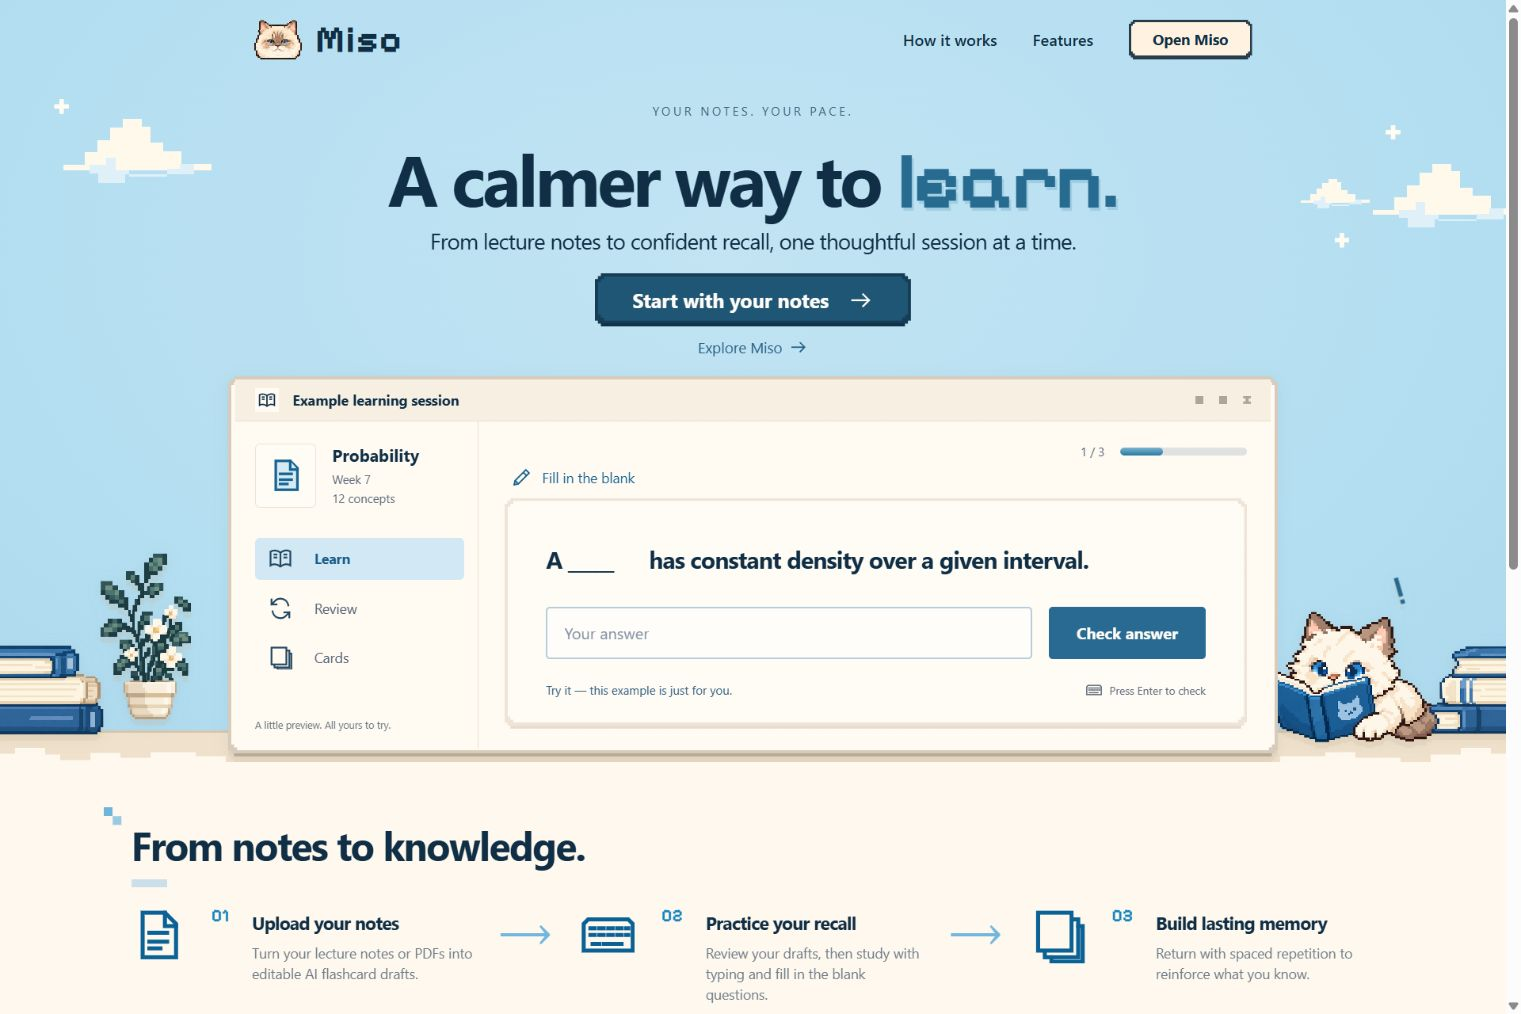
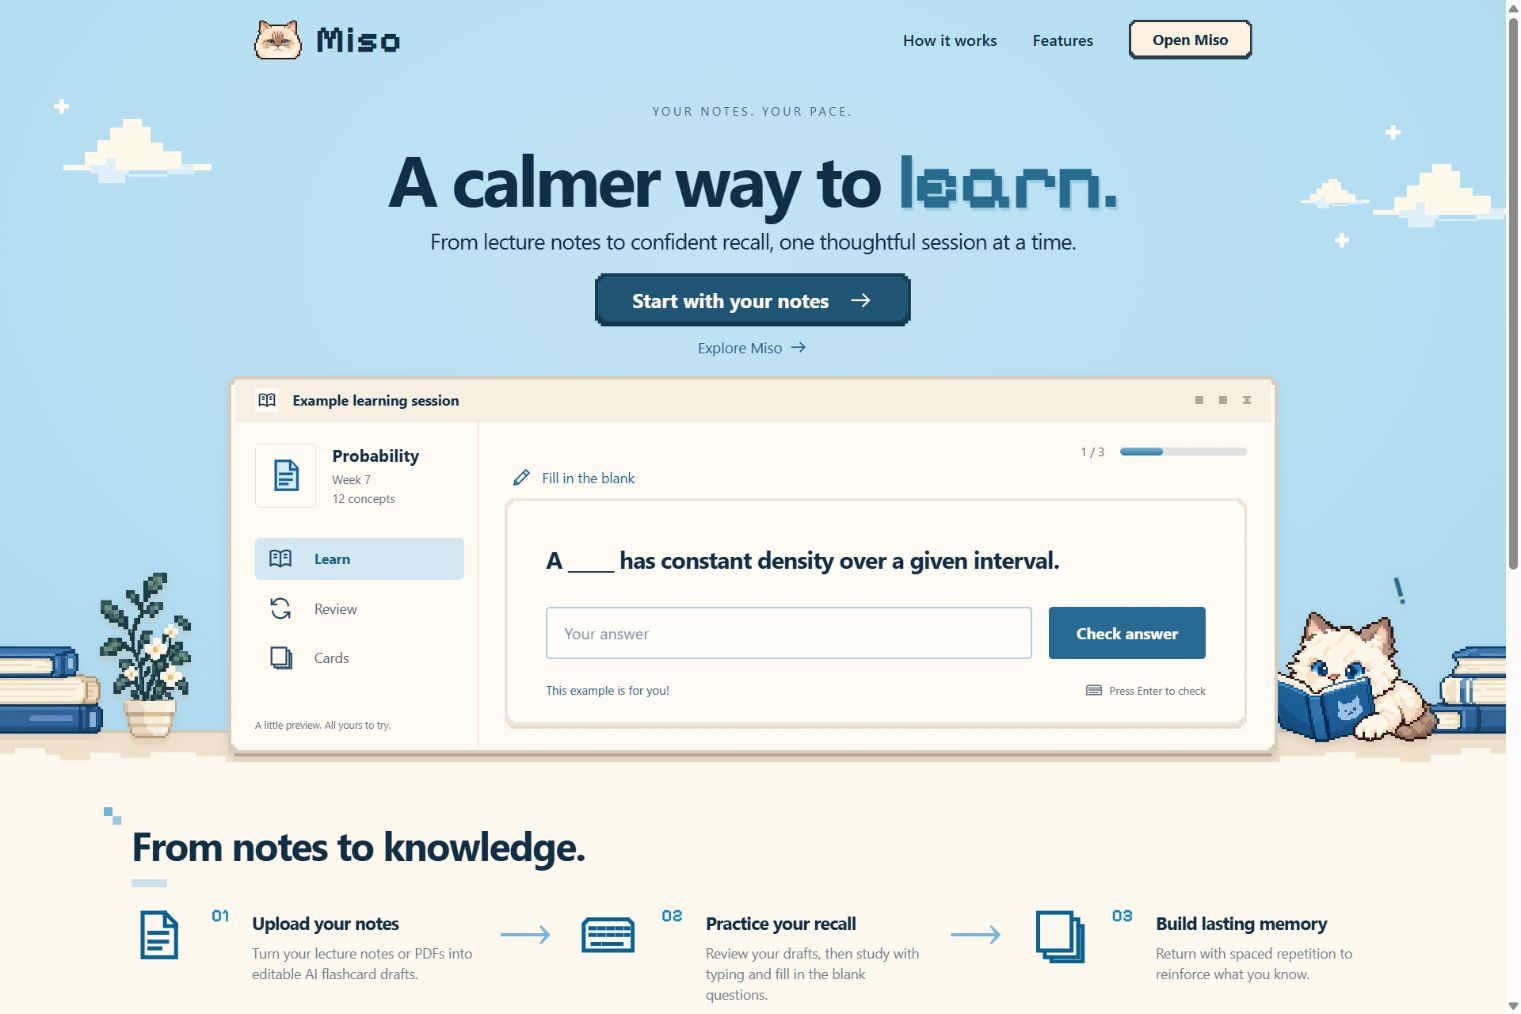
Refine landing example spacing and ground the plant

Changed region(s): [[0.0309, 0.5503, 0.1236, 0.7337], [0.4017, 0.5503, 0.7107, 0.5809], [0.3708, 0.6726, 0.4635, 0.7032]]

diff --git a/src/pages/landing.css b/src/pages/landing.css
@@ -66,7 +66,7 @@
 .landing-demo-label svg { width: 20px; height: 20px; }
 .landing .landing-question { position: relative; --s: 3px; --pb-border: #eee5d8; --pb-depth: #e7ddcf; --pb-fill: #fffbf5; min-height: 233px; padding: 45px 42px 24px; }
 .landing-question h3 { font-size: 24px; line-height: 1.4; font-weight: 700; letter-spacing: -.03em; }
-.landing-blank { display: inline-block; min-width: 76px; }
+.landing-blank { white-space: nowrap; }
 .landing-answer-row { display: flex; gap: 17px; margin-top: 31px; }
 .landing-answer-row input { min-width: 0; width: 100%; flex: 1; height: 53px; padding: 0 17px; border: 2px solid #b5cedf; border-radius: 4px; background: #fffdfa; color: #173c55; font: inherit; font-size: 16px; }
 .landing-answer-row input::placeholder { color: #8492a3; }
@@ -84,7 +84,7 @@
 .landing-scenery { pointer-events: none; }
 .landing-scenery img { position: absolute; object-fit: contain; image-rendering: pixelated; }
 .landing-books-left { right: calc(100% + 100px); bottom: -6px; width: 240px; height: 175px; }
-.landing-flowers { right: calc(100% + 30px); bottom: 29px; }
+.landing-flowers { right: calc(100% + 30px); bottom: 10px; }
 .landing-reading-cat { left: calc(100% - 18px); bottom: 13px; }
 .landing-books-right { left: calc(100% + 125px); bottom: -6px; width: 240px; height: 175px; }
 .landing-cat-spark { position: absolute; left: calc(100% + 118px); bottom: 141px; color: #28688d; font-family: var(--font-pixel); font-size: 42px; transform: rotate(-16deg); }
@@ -121,7 +121,7 @@
 @media (max-width: 1350px) {
   .landing-how, .landing-features, .landing-footer { margin-left: 6%; margin-right: 6%; }
   .landing-steps { gap: 14px; grid-template-columns: 1fr 35px 1fr 35px 1fr; }.landing-steps article { gap: 15px; }.landing-steps article > svg { width: 43px; }.landing-steps h3 { font-size: 16px; }
-  .landing-reading-cat { width: 142px; height: 121px; left: calc(100% - 16px); }.landing-flowers { right: calc(100% - 3px); width: 86px; height: 150px; }.landing-books-left { right: calc(100% + 65px); }
+  .landing-reading-cat { width: 142px; height: 121px; left: calc(100% - 16px); }.landing-flowers { right: calc(100% - 3px); bottom: 15px; width: 86px; height: 150px; }.landing-books-left { right: calc(100% + 65px); }
 }
 @media (max-width: 900px) {
   .landing-header { padding: 0; }.landing-intro { padding: 24px 24px 0; }.landing-intro h1 { font-size: 54px; }.landing-subtitle { font-size: 18px; max-width: 580px; margin-left: auto !important; margin-right: auto !important; }
@@ -134,7 +134,7 @@
   .landing-header { height: 76px; width: calc(100% - 36px); }.landing-brand { gap: 8px; }.landing-brand img { width: 38px; height: 35px; }.landing-brand span { font-size: 32px; }.landing-header nav { gap: 12px; font-size: 12px; }.landing-header nav > a:first-child { display: none; }.landing .landing-button-small { padding: 0 16px; font-size: 13px; min-height: 38px; }
   .landing-intro { padding-top: 23px; }.landing-eyebrow { font-size: 10px; letter-spacing: .2em; }.landing-intro h1 { max-width: 360px; margin: 17px auto 0; font-size: 47px; line-height: 1.05; }.landing-intro h1 span { white-space: nowrap; }.landing-subtitle { margin-top: 16px !important; font-size: 16px; line-height: 1.6; max-width: 345px; }.landing-button { min-height: 51px; font-size: 16px; padding: 0 27px; }.landing-intro .landing-button { margin-top: 22px; }.landing-explore { margin-top: 12px; font-size: 13px; }
   .landing-stage { width: calc(100% - 28px); margin-top: 26px; padding-bottom: 6px; }.landing-window { height: auto; min-height: 390px; }.landing-window-title { padding: 0 11px; font-size: 12px; height: 42px; }.landing-window-title > span:first-child { gap: 8px; }.landing-window-dots { gap: 8px; }.landing-window-dots i { width: 6px; height: 6px; }.landing-window-body { display: block; padding: 0 7px 9px; }.landing-demo-sidebar { display: flex; flex-direction: row; justify-content: space-between; gap: 10px; padding: 15px 9px 12px; border-right: none; border-bottom: 1px solid #e9dfd1; }.landing-course-icon { width: 32px; height: 40px; }.landing-course-icon svg { width: 24px; height: 30px; }.landing-demo-course { gap: 8px; }.landing-demo-course strong { font-size: 13px; }.landing-demo-course div > span { font-size: 10px; line-height: 15px; }.landing-demo-course div > span:last-child { display: none; }.landing-demo-modes { display: flex; gap: 3px; margin: 0; align-items: center; }.landing-demo-modes button { justify-content: center; font-size: 11px; min-height: 35px; padding: 0 9px; }.landing-demo-modes button svg { display: none; }.landing-demo-note { display: none; }
-  .landing-demo-main { padding: 10px 5px 4px; }.landing-demo-progress { font-size: 10px; height: 20px; }.landing-progress-track { width: 85px; height: 6px; }.landing-demo-label { font-size: 12px; margin: 5px 6px 10px; }.landing-demo-label svg { width: 17px; height: 17px; }.landing .landing-question { padding: 25px 18px 19px; min-height: 220px; }.landing-question h3 { font-size: 18px; line-height: 1.5; }.landing-blank { min-width: 54px; }.landing-answer-row { flex-wrap: wrap; margin-top: 20px; gap: 10px; }.landing-answer-row input { height: 44px; min-width: 120px; font-size: 14px; padding-left: 11px; }.landing-check { font-size: 12px; min-height: 44px; padding: 0 12px; }.landing-demo-bottom { font-size: 10px; line-height: 1.5; margin-top: 15px; }.landing-cloud-left { top: 117px; width: 90px; left: -55px; }.landing-cloud-small { width: 65px; top: 243px; right: -39px; }.landing-star { width: 10px; height: 10px; }.landing-star-one { top: 208px; left: 6%; }.landing-star-two { top: 117px; right: 6%; }.landing-star-three { display: none; }
+  .landing-demo-main { padding: 10px 5px 4px; }.landing-demo-progress { font-size: 10px; height: 20px; }.landing-progress-track { width: 85px; height: 6px; }.landing-demo-label { font-size: 12px; margin: 5px 6px 10px; }.landing-demo-label svg { width: 17px; height: 17px; }.landing .landing-question { padding: 25px 18px 19px; min-height: 220px; }.landing-question h3 { font-size: 18px; line-height: 1.5; }.landing-answer-row { flex-wrap: wrap; margin-top: 20px; gap: 10px; }.landing-answer-row input { height: 44px; min-width: 120px; font-size: 14px; padding-left: 11px; }.landing-check { font-size: 12px; min-height: 44px; padding: 0 12px; }.landing-demo-bottom { font-size: 10px; line-height: 1.5; margin-top: 15px; }.landing-cloud-left { top: 117px; width: 90px; left: -55px; }.landing-cloud-small { width: 65px; top: 243px; right: -39px; }.landing-star { width: 10px; height: 10px; }.landing-star-one { top: 208px; left: 6%; }.landing-star-two { top: 117px; right: 6%; }.landing-star-three { display: none; }
   .landing-how { margin-left: 25px; margin-right: 25px; padding-top: 37px; padding-bottom: 26px; }.landing-how h2 { font-size: 29px; }.landing-how::before { left: -8px; top: 22px; width: 6px; height: 6px; box-shadow: 6px 6px #9bc9e2; }.landing-heading-mark { height: 6px; width: 30px; }.landing-steps { grid-template-columns: 1fr; gap: 26px; margin-top: 28px; }.landing-steps article { flex-wrap: nowrap; gap: 16px; }.landing-step-number { align-self: flex-start; font-size: 15px; }.landing-steps article > div { flex: 1; width: auto; }.landing-steps article > svg { width: 39px; height: 44px; }.landing-steps h3 { font-size: 16px; }.landing-steps p { font-size: 13px; }
   .landing-features { margin: 20px 25px 0; padding: 33px 0; }.landing-features h2 { font-size: 28px; }.landing-features-copy > p:not(.landing-eyebrow) { font-size: 14px; }.landing-feature-pills { gap: 10px 14px; font-size: 11px; }.landing-companion { padding: 21px 17px; gap: 15px; }.landing-companion img { width: 100px; height: 90px; }.landing-companion h3 { font-size: 17px; }.landing-companion p { font-size: 12px; }.landing-start { padding: 37px 24px; }.landing-start h2 { font-size: 29px; }.landing-start > p:last-child { font-size: 11px; }.landing-footer { margin: 0 24px; gap: 16px; padding: 24px 0; }.landing-footer > span { display: none; }
 }

diff --git a/src/pages/LandingPage.tsx b/src/pages/LandingPage.tsx
@@ -69,7 +69,7 @@ function ExampleSession() {
           {mode === "Cards" ? <div className="landing-sample-card"><span>CONCEPT {index + 1}</span><h3>{example.term}</h3><p>{example.definition}</p><button className="landing-text-button" onClick={next}>Next example <LandingIcon name="arrow" /></button></div> : mode === "Review" ? <div className="landing-sample-card"><h3>{example.before} _____ {example.after}</h3>{revealed ? <p className="landing-revealed">{example.term}</p> : null}<button className="landing-check" onClick={revealed ? next : () => setRevealed(true)}>{revealed ? "Next example" : "Reveal answer"}</button></div> : <form onSubmit={check}>
             <h3>{example.before} <span className="landing-blank">_____</span> {example.after}</h3>
             <div className="landing-answer-row"><label className="sr-only" htmlFor="demo-answer">Your answer</label><input ref={inputRef} id="demo-answer" autoComplete="off" placeholder="Your answer" value={answer} onChange={event => { setAnswer(event.target.value); setCorrect(null); }} readOnly={correct !== null} /><button className="landing-check" type={correct !== null ? "button" : "submit"} onClick={correct !== null ? next : undefined}>{correct !== null ? "Try another" : "Check answer"}</button></div>
-            <div className="landing-demo-bottom"><span className={correct === false ? "landing-feedback-wrong" : ""} role="status">{correct === null ? "Try it — this example is just for you." : correct ? "✓ Correct. Nicely remembered!" : `Not quite. The answer is ${example.term}.`}</span><span className="landing-enter"><LandingIcon name="keyboard" />Press Enter to check</span></div>
+            <div className="landing-demo-bottom"><span className={correct === false ? "landing-feedback-wrong" : ""} role="status">{correct === null ? "This example is for you!" : correct ? "✓ Correct. Nicely remembered!" : `Not quite. The answer is ${example.term}.`}</span><span className="landing-enter"><LandingIcon name="keyboard" />Press Enter to check</span></div>
           </form>}
         </div>
       </div>
